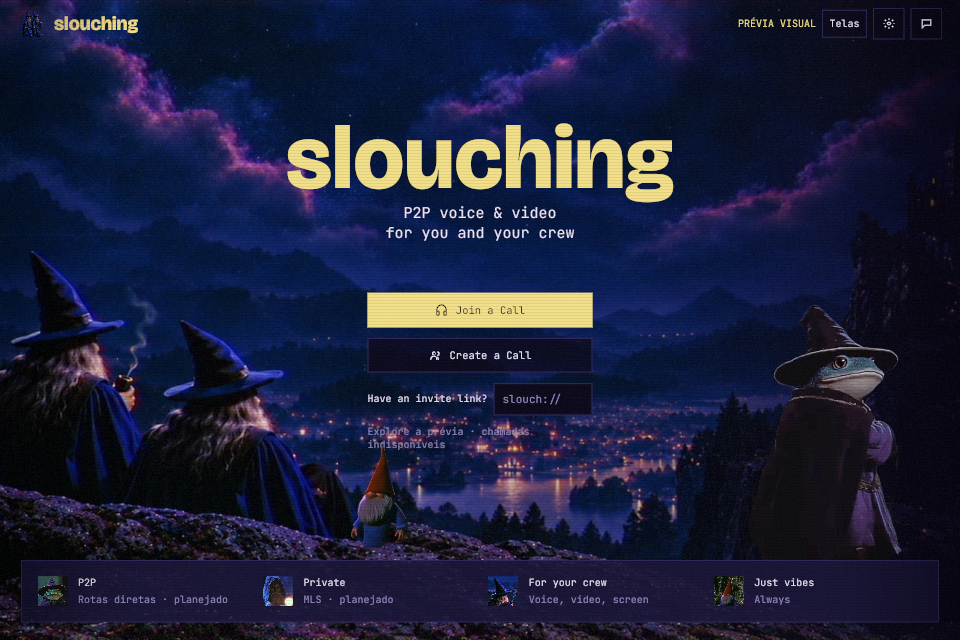
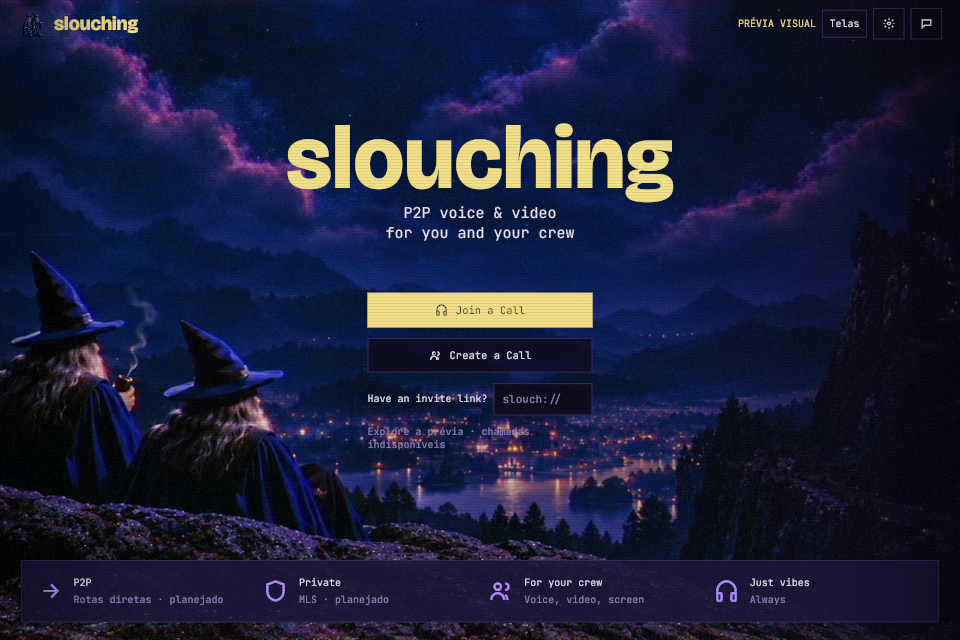
Remove frog and gnome cutouts from home

diff --git a/src/ui.rs b/src/ui.rs
@@ -426,39 +426,17 @@ fn home(state: &Slouching, l: Layout) -> Element<'_, Message> {
         l.label("Explore a prévia · chamadas indisponíveis", 10.0, MUTED)
     ]
     .spacing(l.px(14.0));
-    let frog = l.place(
-        image(assets().images["frog-cutout"].clone())
-            .width(Fill)
-            .height(Fill)
-            .content_fit(ContentFit::Contain),
-        985.0,
-        380.0,
-        230.0,
-        325.0,
-    );
-    let gnome = l.place(
-        image(assets().images["gnome-cutout"].clone())
-            .width(Fill)
-            .height(Fill)
-            .content_fit(ContentFit::Contain),
-        465.0,
-        558.0,
-        83.0,
-        128.0,
-    );
     let features = row![
-        feature(l, "frog", "P2P", "Rotas diretas · planejado"),
-        feature(l, "orb-avatar", "Private", "MLS · planejado"),
-        feature(l, "wizard", "For your crew", "Voice, video, screen"),
-        feature(l, "gnome", "Just vibes", "Always")
+        feature(l, "arrow", "P2P", "Rotas diretas · planejado"),
+        feature(l, "shield", "Private", "MLS · planejado"),
+        feature(l, "users", "For your crew", "Voice, video, screen"),
+        feature(l, "headphones", "Just vibes", "Always")
     ]
     .spacing(l.px(22.0));
     stack![
         title,
         subtitle,
         l.place(actions, 490.0, 366.0, 300.0, 225.0),
-        frog,
-        gnome,
         l.place(l.panel(features), 28.0, 700.0, 1224.0, 78.0)
     ]
     .width(Fill)
@@ -467,12 +445,12 @@ fn home(state: &Slouching, l: Layout) -> Element<'_, Message> {
 }
 fn feature(
     l: Layout,
-    art: &'static str,
+    icon: &'static str,
     title: &'static str,
     detail: &'static str,
 ) -> Element<'static, Message> {
     row![
-        l.picture(art, 40.0, 40.0),
+        l.icon(icon, VIOLET, 34.0),
         column![l.label(title, 13.0, PAPER), l.label(detail, 10.0, MUTED)].spacing(l.px(5.0))
     ]
     .spacing(l.px(14.0))

diff --git a/README.md b/README.md
@@ -70,7 +70,7 @@ primitives; this does not enable chat.
 
 ![Native familiar screen showing local profile and identity keyring status, with a retry action when the system keyring is unavailable](docs/design/runtime/native-vhs/01-familiar.png)
 
-![Actual native Iced home using the supplied scenery and characters](docs/design/runtime/native-vhs/09-home.png)
+![Actual native Iced home with open scenery and icon-based feature strip, without the frog mage or gnome cutouts](docs/design/runtime/native-vhs/09-home.png)
 
 ![Actual native Iced group-call preview; all media and chat content is illustrative](docs/design/runtime/native-vhs/10-call.png)
 

diff --git a/docs/design/runtime/native-vhs/README.md b/docs/design/runtime/native-vhs/README.md
@@ -22,6 +22,10 @@ These captures show only the native UI. The separate encrypted event-journal
 storage primitives are not connected to the screens, MLS, or delivery and do
 not enable chat.
 
+The home view keeps the supplied night scenery and call controls, with an
+icon-based feature strip. Its frog mage and gnome foreground cutouts have been
+removed to keep the scene open.
+
 Reproduce with `cargo run -- --capture-dir /tmp/slouching-captures`.
 Request a size with `SLOUCHING_WINDOW_SIZE=1280x800`; a tiling compositor may
 need this window floated and resized before the six-second capture delay;
